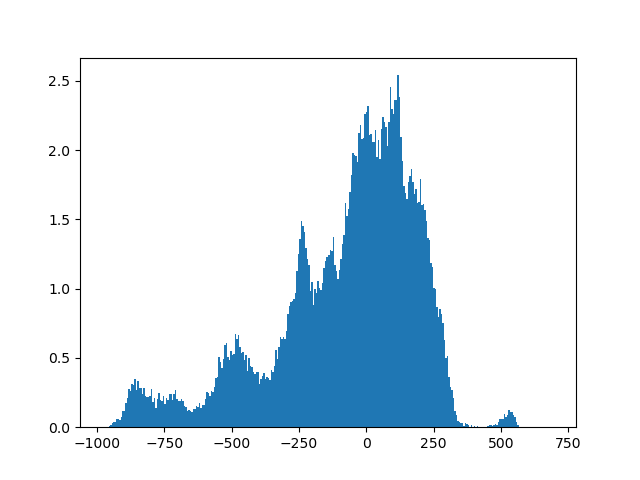
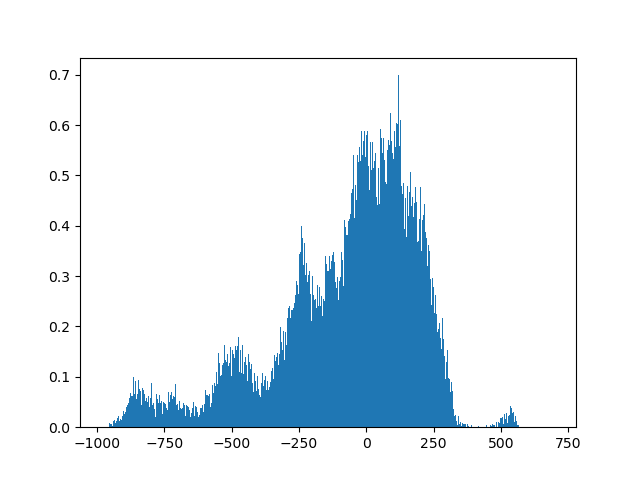
known bug: KeyError GFM_Metals

diff --git a/main.py b/main.py
@@ -24,7 +24,6 @@ output = str('snap'+str(snapNum)+'_subhalo'+str(subhalo_id)+'.png')
 fields = ['Velocities','CenterOfMass','NeutralHydrogenAbundance','GFM_Metals','Masses']
 partType = 0 #Gas particle
 delta_v = 1.4 #As compatible resolution of Arecibo, unit = km/s
-a=1
 def snapInfo():
     #Load snapshot Header from first chunk
     #Copied from il.snapshot.loadSubset()
@@ -36,7 +35,7 @@ def snapInfo():
 snapInfo = snapInfo()
 h = snapInfo['HubbleParam']
 z = snapInfo['Redshift']
-#print(sHeader)
+a = snapInfo['Time']
 
 def groupcatInfo():
     #Read subhalo position from groupcat
@@ -79,6 +78,8 @@ subhalo = il.snapshot.loadSubhalo(basePath, snapNum, subhalo_id, partType, field
 MassHI = MassHI()
 LOSVelocity = LOSVelocity()
 print('LOSVelocity=',LOSVelocity)
+bins = int((np.nanmax(LOSVelocity) - np.nanmin(LOSVelocity))/delta_v)
+print('bins=',bins)
 fluxDensity = fluxDensity(MassHI,D)
 
 '''
@@ -95,5 +96,5 @@ bins=int((v_max-v_min)/delta_v)
 ######################################################################################################
 #Save histogram as PNG file
 #TODO: tags
-n, bins, patches = plt.hist(LOSVelocity, weights = fluxDensity, bins=300)
+n, bins, patches = plt.hist(LOSVelocity, weights = fluxDensity, bins=bins)
 plt.savefig(output,format='png')
